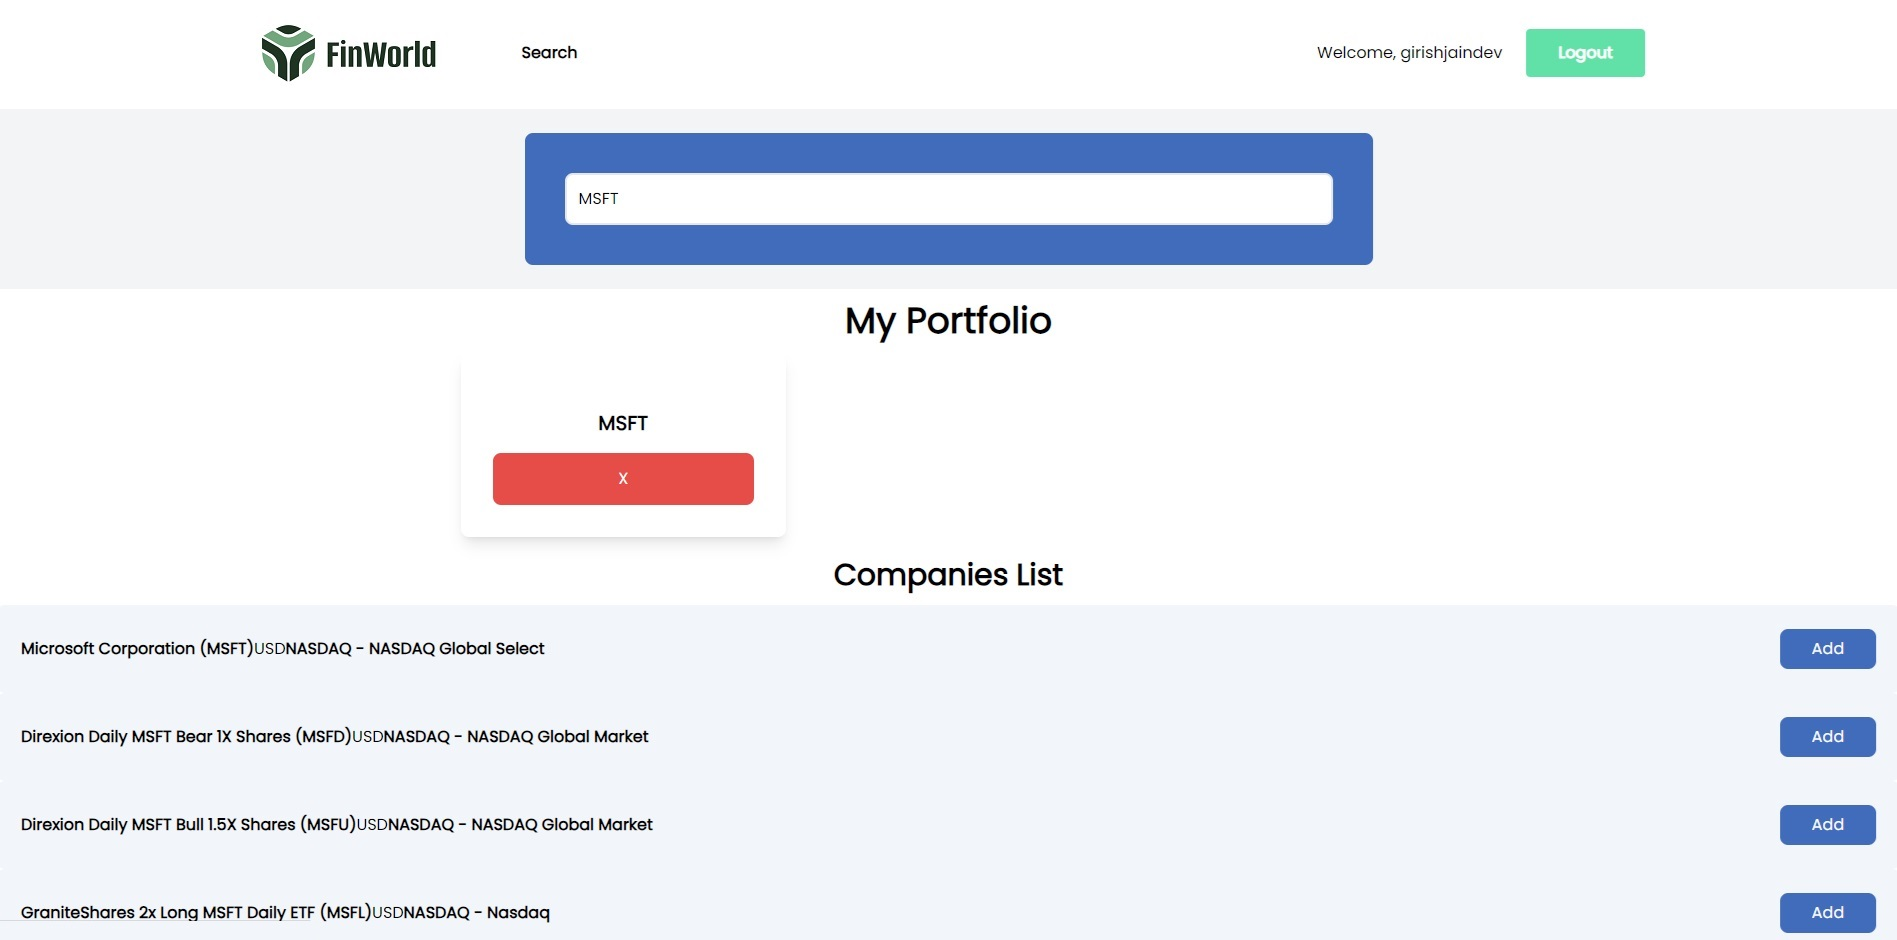
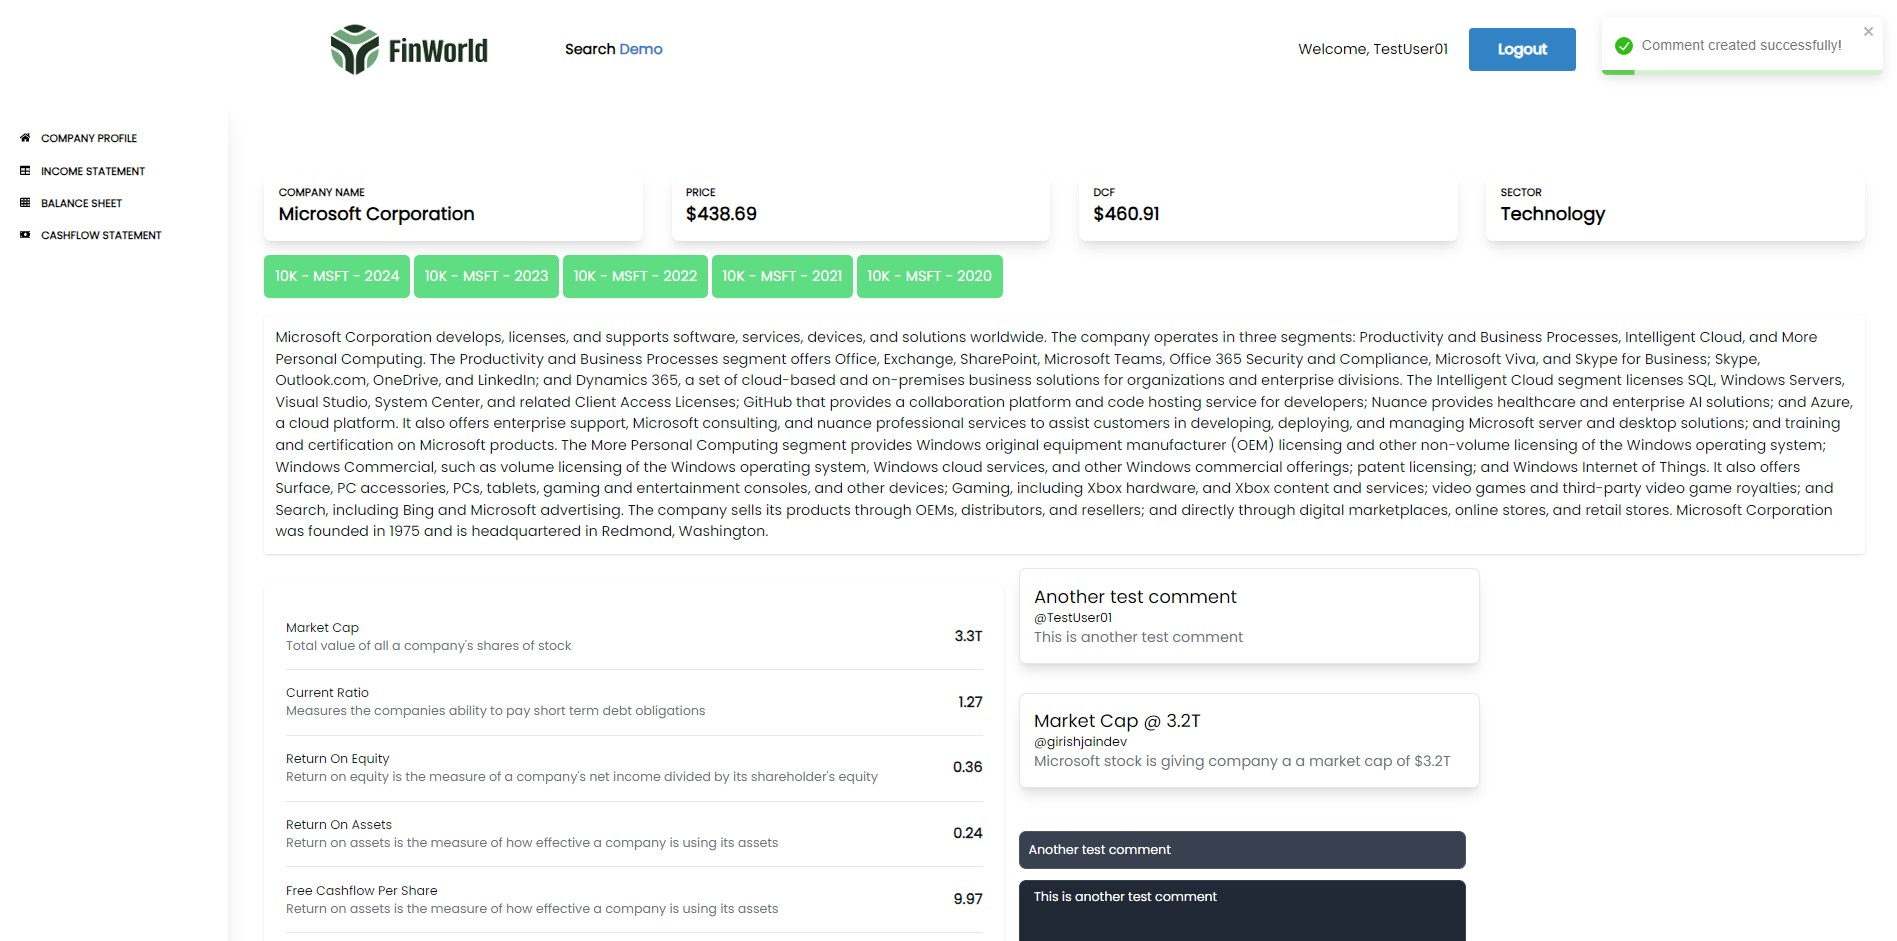
Corrected errors messages; Corrected demo page; Modified UI

diff --git a/src/Components/Search/Search.tsx b/src/Components/Search/Search.tsx
@@ -1,32 +1,34 @@
-import React, { ChangeEvent, SyntheticEvent } from 'react'
+import React, { ChangeEvent, SyntheticEvent } from "react";
 
 interface Props {
-    onSearchSubmit: (e: SyntheticEvent) => void;
-    search: string | undefined;
-    handleSearchChange: (e: ChangeEvent<HTMLInputElement>) => void;
+  onSearchSubmit: (e: SyntheticEvent) => void;
+  search: string | undefined;
+  handleSearchChange: (e: ChangeEvent<HTMLInputElement>) => void;
 }
 
-const Search: React.FC<Props> = ({ onSearchSubmit, search, handleSearchChange }: Props): JSX.Element => {
-
-    return (
-        <section className="relative bg-gray-100">
-            <div className="max-w-4xl mx-auto p-6 space-y-6">
-                <form
-                    className="form relative flex flex-col w-full p-10 space-y-4 bg-darkBlue rounded-lg md:flex-row md:space-y-0 md:space-x-3"
-                    onSubmit={onSearchSubmit}
-                >
-                    <input
-                        className="flex-1 p-3 border-2 rounded-lg placeholder-black focus:outline-none"
-                        id="search-input"
-                        placeholder="Search companies"
-                        value={search}
-                        onChange={handleSearchChange}
-                    ></input>
-                </form>
-            </div>
-        </section>
-
-    )
-}
+const Search: React.FC<Props> = ({
+  onSearchSubmit,
+  search,
+  handleSearchChange,
+}: Props): JSX.Element => {
+  return (
+    <section className="relative bg-gray-100">
+      <div className="max-w-4xl mx-auto p-6 space-y-6">
+        <form
+          className="form relative flex flex-col w-full p-10 space-y-4 bg-sky-600 rounded-lg md:flex-row md:space-y-0 md:space-x-3"
+          onSubmit={onSearchSubmit}
+        >
+          <input
+            className="flex-1 p-3 border-2 rounded-lg placeholder-black focus:outline-none"
+            id="search-input"
+            placeholder="Search companies"
+            value={search}
+            onChange={handleSearchChange}
+          ></input>
+        </form>
+      </div>
+    </section>
+  );
+};
 
 export default Search;

diff --git a/src/Components/Navbar/Navbar.tsx b/src/Components/Navbar/Navbar.tsx
@@ -18,7 +18,7 @@ const Navbar = (props: Props) => {
           <div className="hidden font-bold lg:flex">
             <Link
               to="/finworld/search"
-              className="text-black hover:text-darkBlue"
+              className="text-black hover:text-sky-600"
             >
               Search
             </Link>
@@ -26,7 +26,7 @@ const Navbar = (props: Props) => {
             <Link
               to="finworld/demo"
               target="_blank"
-              className="text-darkBlue hover:text-darkBlue"
+              className="text-sky-600 hover:text-darkBlue"
             >
               Demo
             </Link>
@@ -34,11 +34,11 @@ const Navbar = (props: Props) => {
         </div>
         {isLoggedIn() ? (
           <div className="hidden lg:flex items-center space-x-6 text-back">
-            <div className="hover:text-darkBlue">Welcome, {user?.userName}</div>
+            <div className="hover:text-sky-600">Welcome, {user?.userName}</div>
             <a
               style={{ cursor: "pointer" }}
               onClick={logout}
-              className="px-8 py-3 font-bold rounded text-white bg-lightGreen hover:opacity-70"
+              className="px-8 py-3 font-bold rounded text-white bg-sky-600 hover:opacity-80"
             >
               Logout
             </a>
@@ -50,7 +50,7 @@ const Navbar = (props: Props) => {
             </Link>
             <Link
               to="/finworld/register"
-              className="px-8 py-3 font-bold rounded text-white bg-lightGreen hover:opacity-70"
+              className="px-8 py-3 font-bold rounded text-white bg-sky-500 hover:opacity-80"
             >
               Signup
             </Link>

diff --git a/src/Components/Portfolio/AddPortfolio/AddPortfolio.tsx b/src/Components/Portfolio/AddPortfolio/AddPortfolio.tsx
@@ -1,24 +1,24 @@
-import React, { SyntheticEvent } from 'react'
+import React, { SyntheticEvent } from "react";
 
 interface Props {
-    onPortfolioCreate: (e: SyntheticEvent) => void;
-    symbol: string;
+  onPortfolioCreate: (e: SyntheticEvent) => void;
+  symbol: string;
 }
 
 const AddPortfolio = ({ onPortfolioCreate, symbol }: Props) => {
-    return (
-        <div className="flex flex-col items-center justify-end flex-1 space-x-4 space-y-2 md:flex-row md:space-y-0">
-            <form onSubmit={onPortfolioCreate}>
-                <input readOnly={true} hidden={true} value={symbol} />
-                <button
-                    type="submit"
-                    className="p-2 px-8 text-white bg-darkBlue rounded-lg hover:opacity-70 focus:outline-none"
-                >
-                    Add
-                </button>
-            </form>
-        </div>
-    )
-}
+  return (
+    <div className="flex flex-col items-center justify-end flex-1 space-x-4 space-y-2 md:flex-row md:space-y-0">
+      <form onSubmit={onPortfolioCreate}>
+        <input readOnly={true} hidden={true} value={symbol} />
+        <button
+          type="submit"
+          className="p-2 px-8 text-white bg-sky-600 rounded-lg hover:opacity-70 focus:outline-none"
+        >
+          Add
+        </button>
+      </form>
+    </div>
+  );
+};
 
-export default AddPortfolio
+export default AddPortfolio;

diff --git a/src/Components/TenKFinder/TenKFinderItem/TenKFinderItem.tsx b/src/Components/TenKFinder/TenKFinderItem/TenKFinderItem.tsx
@@ -1,21 +1,27 @@
-import React from 'react'
-import { CompanyTenK } from '../../../company'
-import { Link } from 'react-router-dom';
+import React from "react";
+import { CompanyTenK } from "../../../company";
+import { Link } from "react-router-dom";
 
 type Props = {
-    tenK: CompanyTenK;
-}
-
-const TenKFinderItem = ({ tenK }: Props) => {
-    const fillingDate = new Date(tenK.fillingDate).getFullYear();
-    return (
-        <Link
-            reloadDocument
-            to={tenK.finalLink}
-            type="button"
-            className="inline-flex items-center p-4 text-md text-white bg-lightGreen rounded-md"
-        > 10K - {tenK.symbol} - {fillingDate}</Link>
-    )
+  tenK: CompanyTenK;
 };
 
-export default TenKFinderItem
+const TenKFinderItem = ({ tenK }: Props) => {
+  const fillingDate = new Date(tenK.fillingDate).getFullYear();
+  return (
+    <>
+      <Link
+        reloadDocument
+        to={tenK.finalLink}
+        type="button"
+        className="inline-flex items-center p-3 text-md text-white bg-green-400 rounded-md"
+      >
+        {" "}
+        10K - {tenK.symbol} - {fillingDate}
+      </Link>
+      &nbsp;
+    </>
+  );
+};
+
+export default TenKFinderItem;

diff --git a/src/Pages/RegisterPage/RegisterPage.tsx b/src/Pages/RegisterPage/RegisterPage.tsx
@@ -1,4 +1,4 @@
-import React from "react";
+import React, { useState } from "react";
 import * as Yup from "yup";
 import { yupResolver } from "@hookform/resolvers/yup";
 import { useAuth } from "../../Context/useAuth";
@@ -112,9 +112,9 @@ const RegisterPage = (props: Props) => {
               </div>
               <button
                 type="submit"
-                className="w-full text-white bg-lightGreen hover:bg-primary-700 focus:ring-4 focus:outline-none focus:ring-primary-300 font-medium rounded-lg text-sm px-5 py-2.5 text-center dark:bg-primary-600 dark:hover:bg-primary-700 dark:focus:ring-primary-800"
+                className="w-full text-white bg-sky-500 hover:bg-primary-700 focus:ring-4 focus:outline-none focus:ring-primary-300 font-medium rounded-lg text-sm px-5 py-2.5 text-center dark:bg-primary-600 dark:hover:bg-primary-700 dark:focus:ring-primary-800"
               >
-                Sign in
+                Register
               </button>
               <p className="text-sm font-light text-gray-500 dark:text-gray-400">
                 Don’t have an account yet?{" "}

diff --git a/src/Components/Portfolio/DeletePortfolio/DeletePortfolio.tsx b/src/Components/Portfolio/DeletePortfolio/DeletePortfolio.tsx
@@ -1,19 +1,19 @@
-import React, { SyntheticEvent } from 'react'
+import React, { SyntheticEvent } from "react";
 
 interface Props {
-    onPortfolioDelete: (e: SyntheticEvent) => void;
-    portfolioValue: string;
+  onPortfolioDelete: (e: SyntheticEvent) => void;
+  portfolioValue: string;
 }
 
 const DeletePortfolio = ({ onPortfolioDelete, portfolioValue }: Props) => {
-    return (
-        <form onSubmit={onPortfolioDelete}>
-            <input hidden={true} value={portfolioValue} />
-            <button className="block w-full py-3 text-white duration-200 border-2 rounded-lg bg-red-500 hover:text-red-500 hover:bg-white border-red-500">
-                X
-            </button>
-        </form>
-    )
-}
+  return (
+    <form onSubmit={onPortfolioDelete}>
+      <input hidden={true} value={portfolioValue} />
+      <button className="block w-full py-3 text-white duration-200 border-2 rounded-lg bg-red-500 hover:text-red-500 hover:bg-white border-red-500">
+        Remove
+      </button>
+    </form>
+  );
+};
 
-export default DeletePortfolio
+export default DeletePortfolio;

diff --git a/src/Components/Demo/Demo.tsx b/src/Components/Demo/Demo.tsx
@@ -10,14 +10,17 @@ const Demo = (props: Props) => {
   return (
     <>
       <div className="div-api-link">
-        Please click on the{" "}
+        Please click on this{" "}
         <a
           href="https://finworld001-g8cgetfzc4abfagj.eastasia-01.azurewebsites.net/swagger/index.html"
           target="_blank"
         >
           ApiLink
         </a>{" "}
-        , if the application breaks
+        , if the application does not responds
+      </div>
+      <div className="div-demo-usr">
+        Demo user credentials: TestUser01/Test@123
       </div>
       <div className="divframe">
         <span className="helper"></span>
@@ -26,10 +29,6 @@ const Demo = (props: Props) => {
         <img src={snap2} alt="Picture 2" />
         <span className="helper"></span>
         <img src={snap3} alt="Picture 3" />
-        <span className="helper"></span>
-        <img src={snap4} alt="Picture 4" />
-        <span className="helper"></span>
-        <img src={snap5} alt="Picture 5" />
         <span className="helper"></span>
       </div>
     </>

diff --git a/src/Components/Hero/Hero.tsx b/src/Components/Hero/Hero.tsx
@@ -19,14 +19,22 @@ const Hero = (props: Props) => {
           <div className="mx-auto lg:mx-0">
             <Link
               to="/finworld/search"
-              className="py-5 px-10 text-2xl font-bold text-white bg-lightGreen rounded lg:py-4 hover:opacity-70"
+              className="py-5 px-10 text-2xl font-bold text-white bg-sky-500 rounded lg:py-4 hover:opacity-80"
             >
               Get Started
             </Link>
           </div>
         </div>
         <div className="mb-24 mx-auto md:w-180 md:px-10 lg:mb-0 lg:w-1/2">
-          <img src={hero} alt="" />
+          <img
+            src={hero}
+            alt=""
+            style={{
+              marginTop: "100px",
+              borderRadius: "10px",
+              boxShadow: "2px 2px 4px rgba(0, 0, 0, 0.4)",
+            }}
+          />
         </div>
       </div>
     </section>

diff --git a/src/Pages/LoginPage/LoginPage.tsx b/src/Pages/LoginPage/LoginPage.tsx
@@ -89,7 +89,7 @@ const LoginPage = (props: Props) => {
               </div>
               <button
                 type="submit"
-                className="w-full text-white bg-lightGreen hover:bg-primary-700 focus:ring-4 focus:outline-none focus:ring-primary-300 font-medium rounded-lg text-sm px-5 py-2.5 text-center dark:bg-primary-600 dark:hover:bg-primary-700 dark:focus:ring-primary-800"
+                className="w-full text-white bg-sky-500 hover:bg-primary-700 focus:ring-4 focus:outline-none focus:ring-primary-300 font-medium rounded-lg text-sm px-5 py-2.5 text-center dark:bg-primary-600 dark:hover:bg-primary-700 dark:focus:ring-primary-800"
               >
                 Sign in
               </button>

diff --git a/src/Components/StockComment/StockCommentForm/StockCommentForm.tsx b/src/Components/StockComment/StockCommentForm/StockCommentForm.tsx
@@ -49,7 +49,7 @@ const StockCommentForm = ({ symbol, handleComment }: Props) => {
       </div>
       <button
         type="submit"
-        className="inline-flex items-center py-2.5 px-4 text-xs font-medium text-center text-white bg-lightGreen rounded-lg focus:ring-4 focus:ring-primary-200 dark:focus:ring-primary-900 hover:bg-primary-800"
+        className="inline-flex items-center py-2.5 px-4 text-xs font-medium text-center text-white bg-sky-500 rounded-lg focus:ring-4 focus:ring-primary-200 dark:focus:ring-primary-900 hover:bg-primary-800 hover:opacity-80"
       >
         Post comment
       </button>

diff --git a/src/Components/Portfolio/CardPortfolio/CardPortfolio.tsx b/src/Components/Portfolio/CardPortfolio/CardPortfolio.tsx
@@ -13,9 +13,9 @@ const CardPortfolio = ({ portfolioValue, onPortfolioDelete }: Props) => {
     <div className="flex flex-col w-full p-8 space-y-4 text-center rounded-lg shadow-lg md:w-1/3">
       <Link
         to={`/finworld/company/${portfolioValue.symbol}/company-profile`}
-        className="pt-6 text-xl font-bold"
+        className="pt-6 text-l font-bold"
       >
-        {portfolioValue.symbol}
+        {portfolioValue.companyName} ({portfolioValue.symbol})
       </Link>
       <DeletePortfolio
         portfolioValue={portfolioValue.symbol}

diff --git a/src/Helpers/ErrorHandler.tsx b/src/Helpers/ErrorHandler.tsx
@@ -14,6 +14,12 @@ export const handleError = (error: any) => {
       }
     } else if (err?.data) {
       toast.warning(err.data);
+      if (err?.data === "object" && Array.isArray(err?.data)) {
+        for (let valData of err?.data) {
+          toast.warning(valData.description);
+        }
+      }
+      toast.warning(err.data[0].description);
     } else if (err?.status == 401) {
       toast.warning("Please login");
       window.history.pushState({}, "LoginPage", "/finworld/login");
